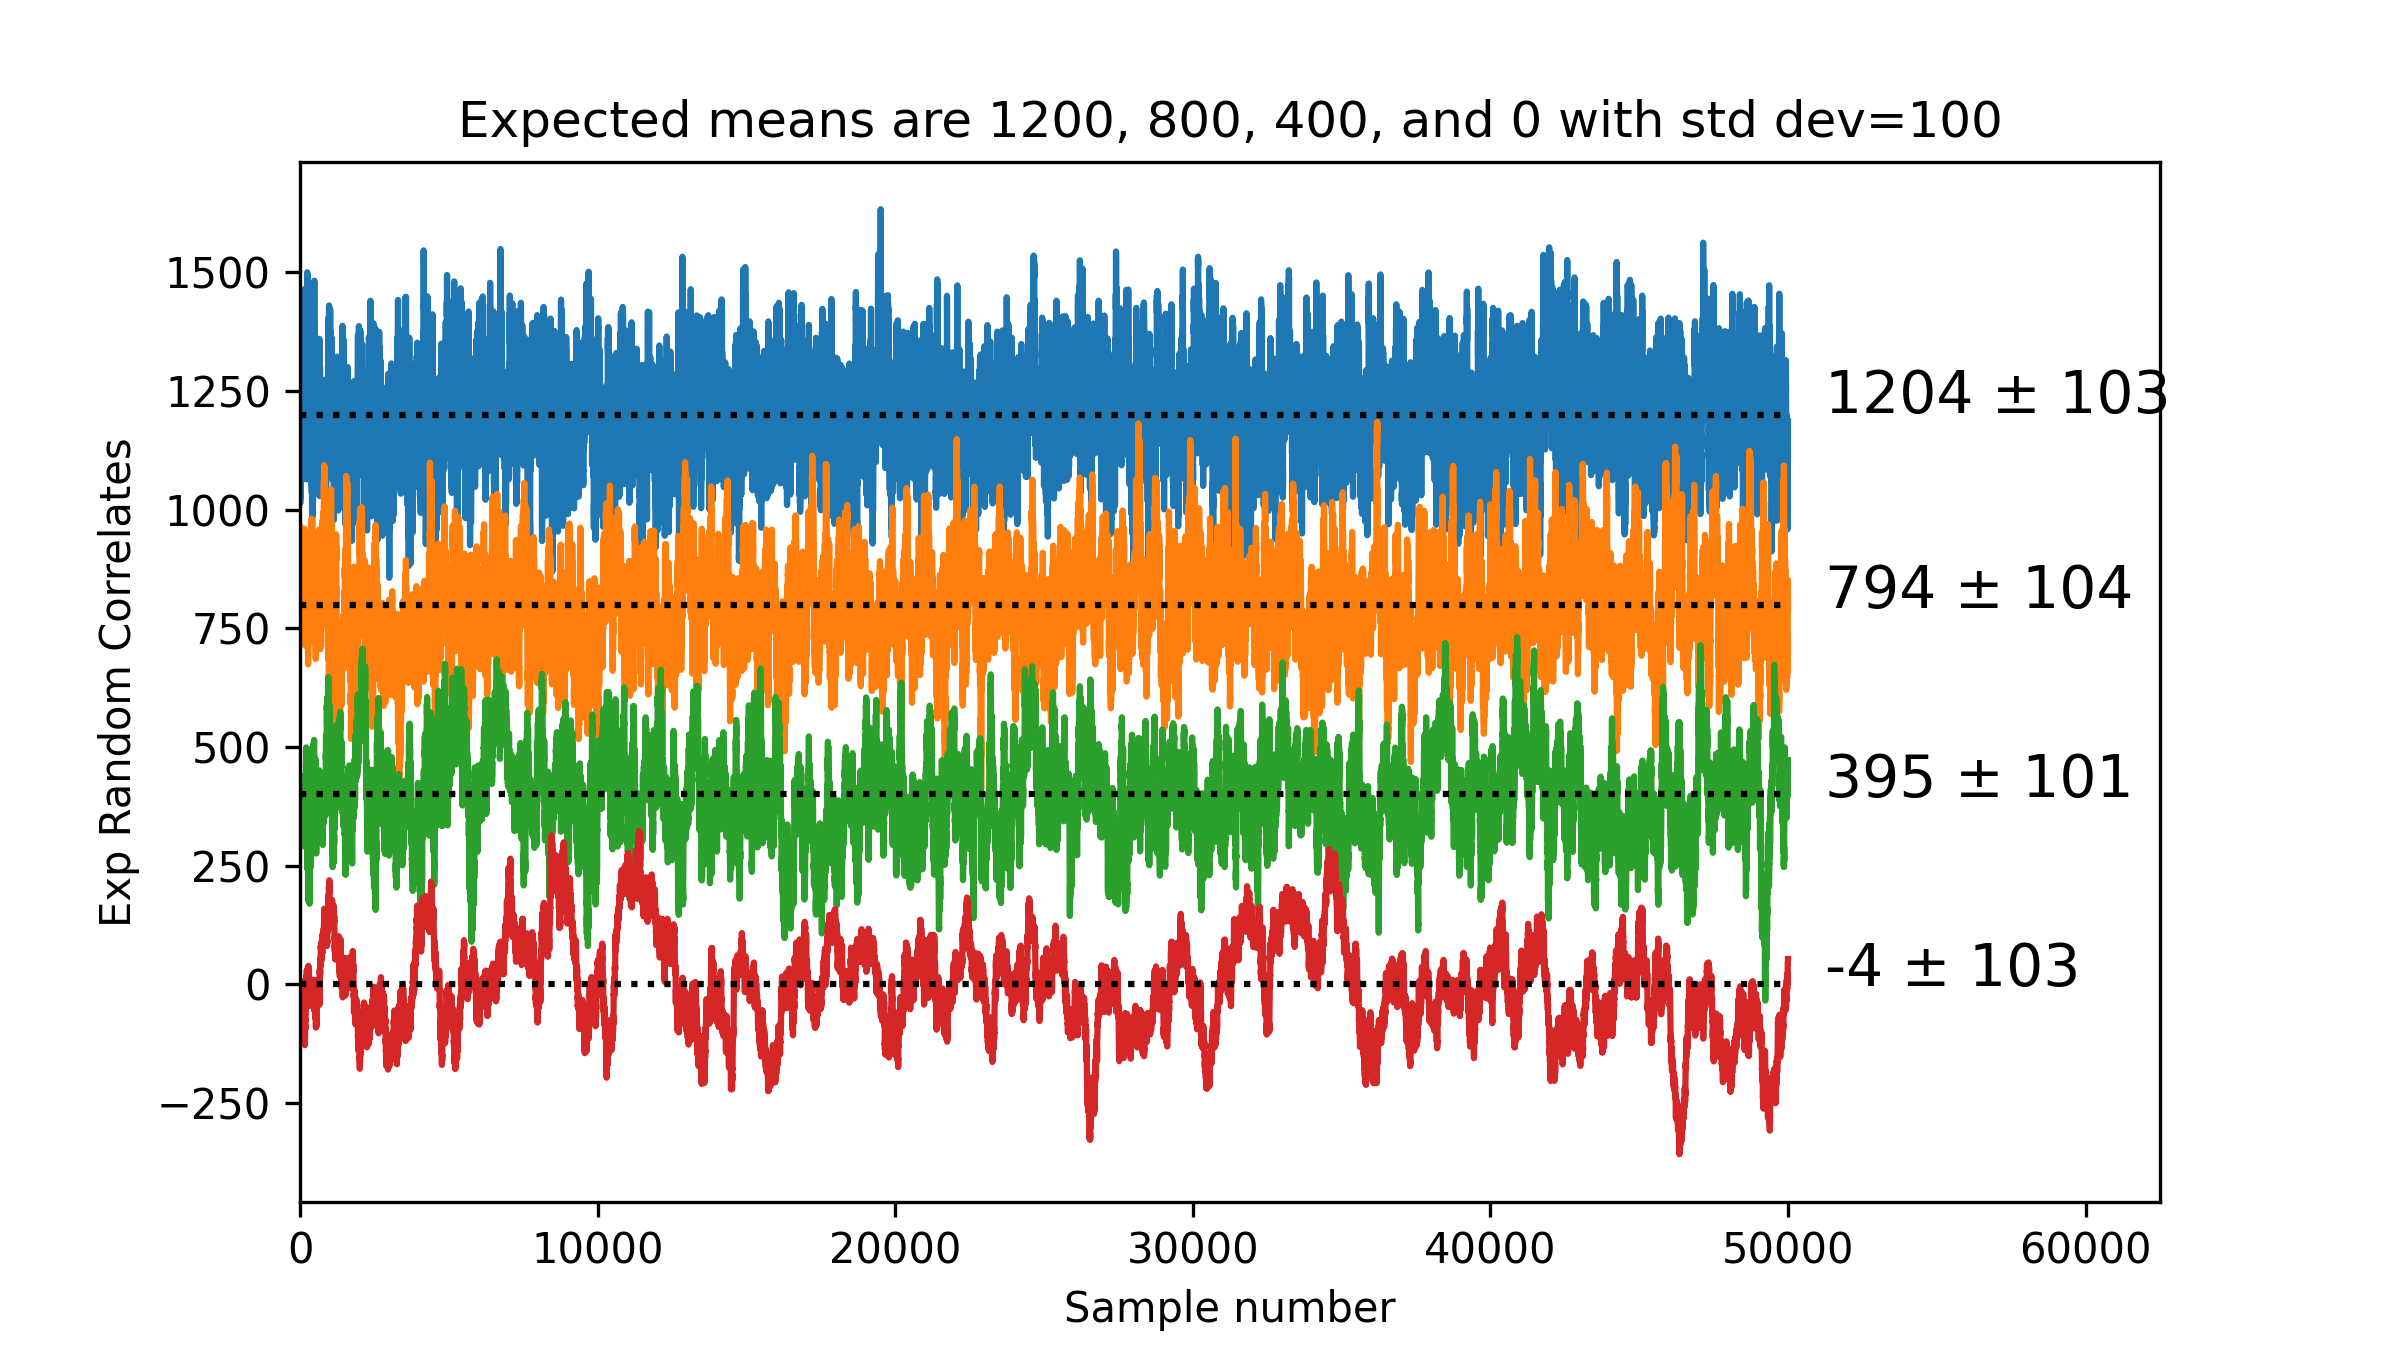
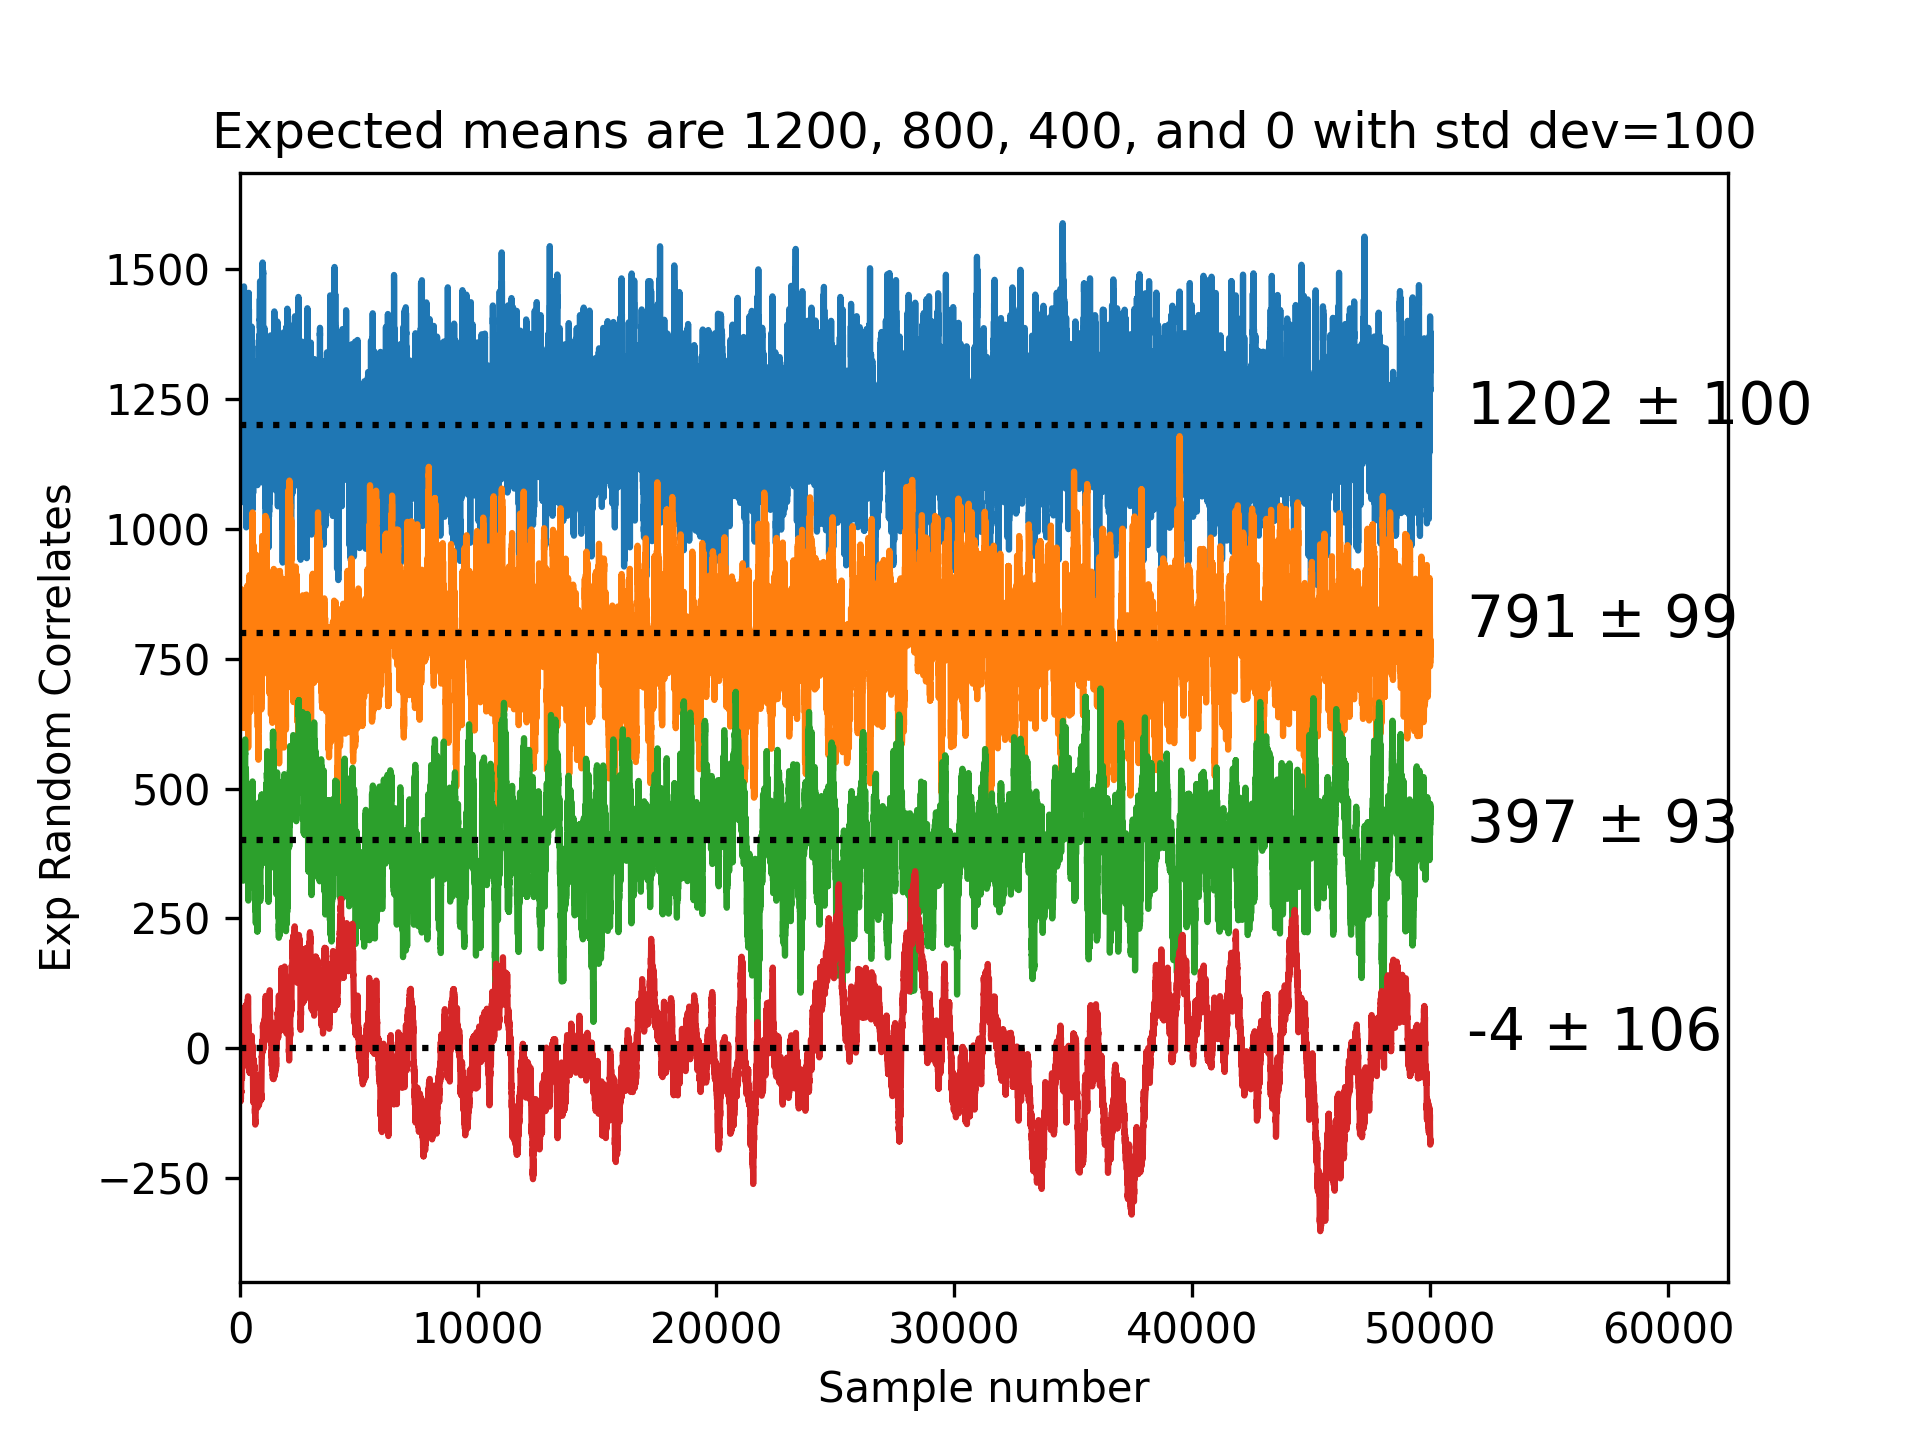
use python 3.14, bump sphinx and jupyterlite versions

diff --git a/docs/conf.py b/docs/conf.py
@@ -38,3 +38,6 @@ nbsphinx_allow_errors = False
 html_theme = "sphinx_rtd_theme"
 html_scaled_image_link = False
 html_sourcelink_suffix = ""
+
+html_static_path = ["_static"]
+html_css_files = ["custom.css"]
